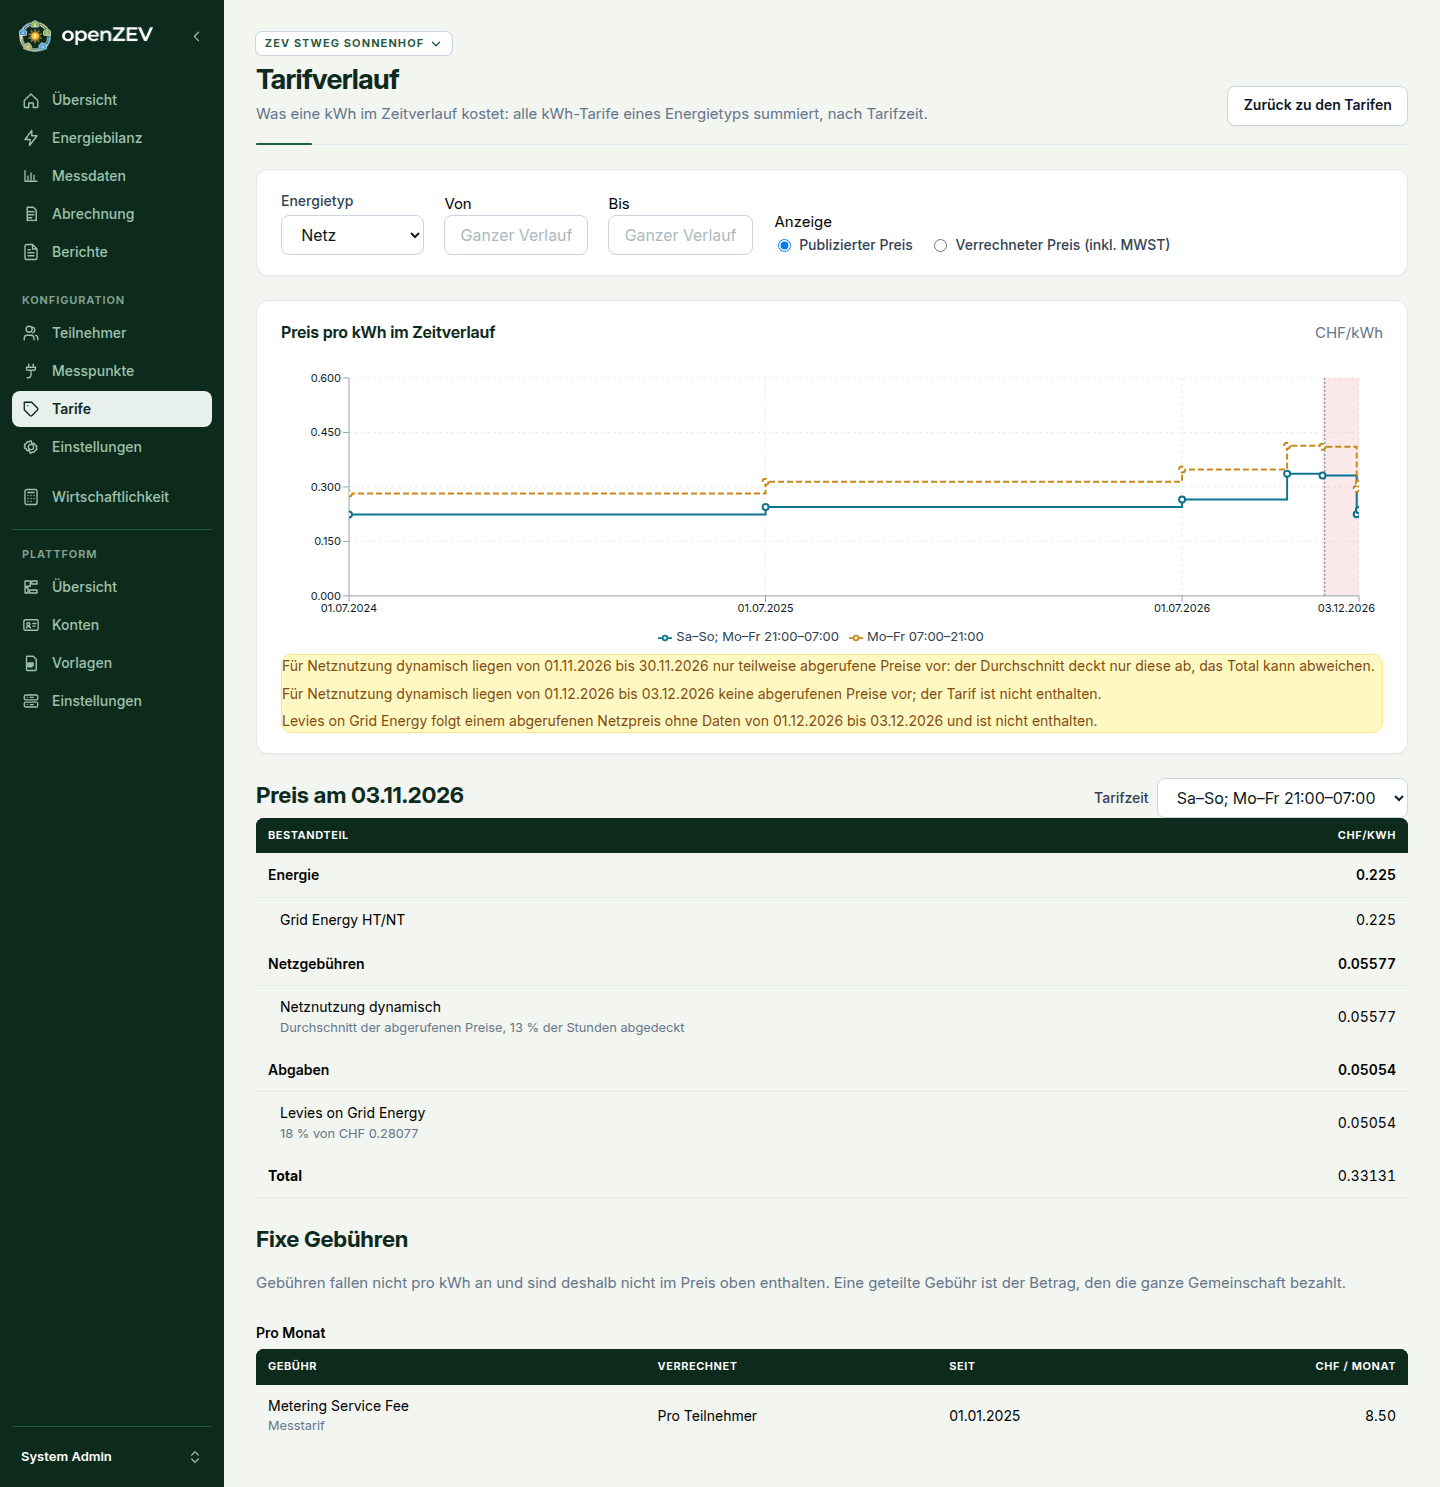
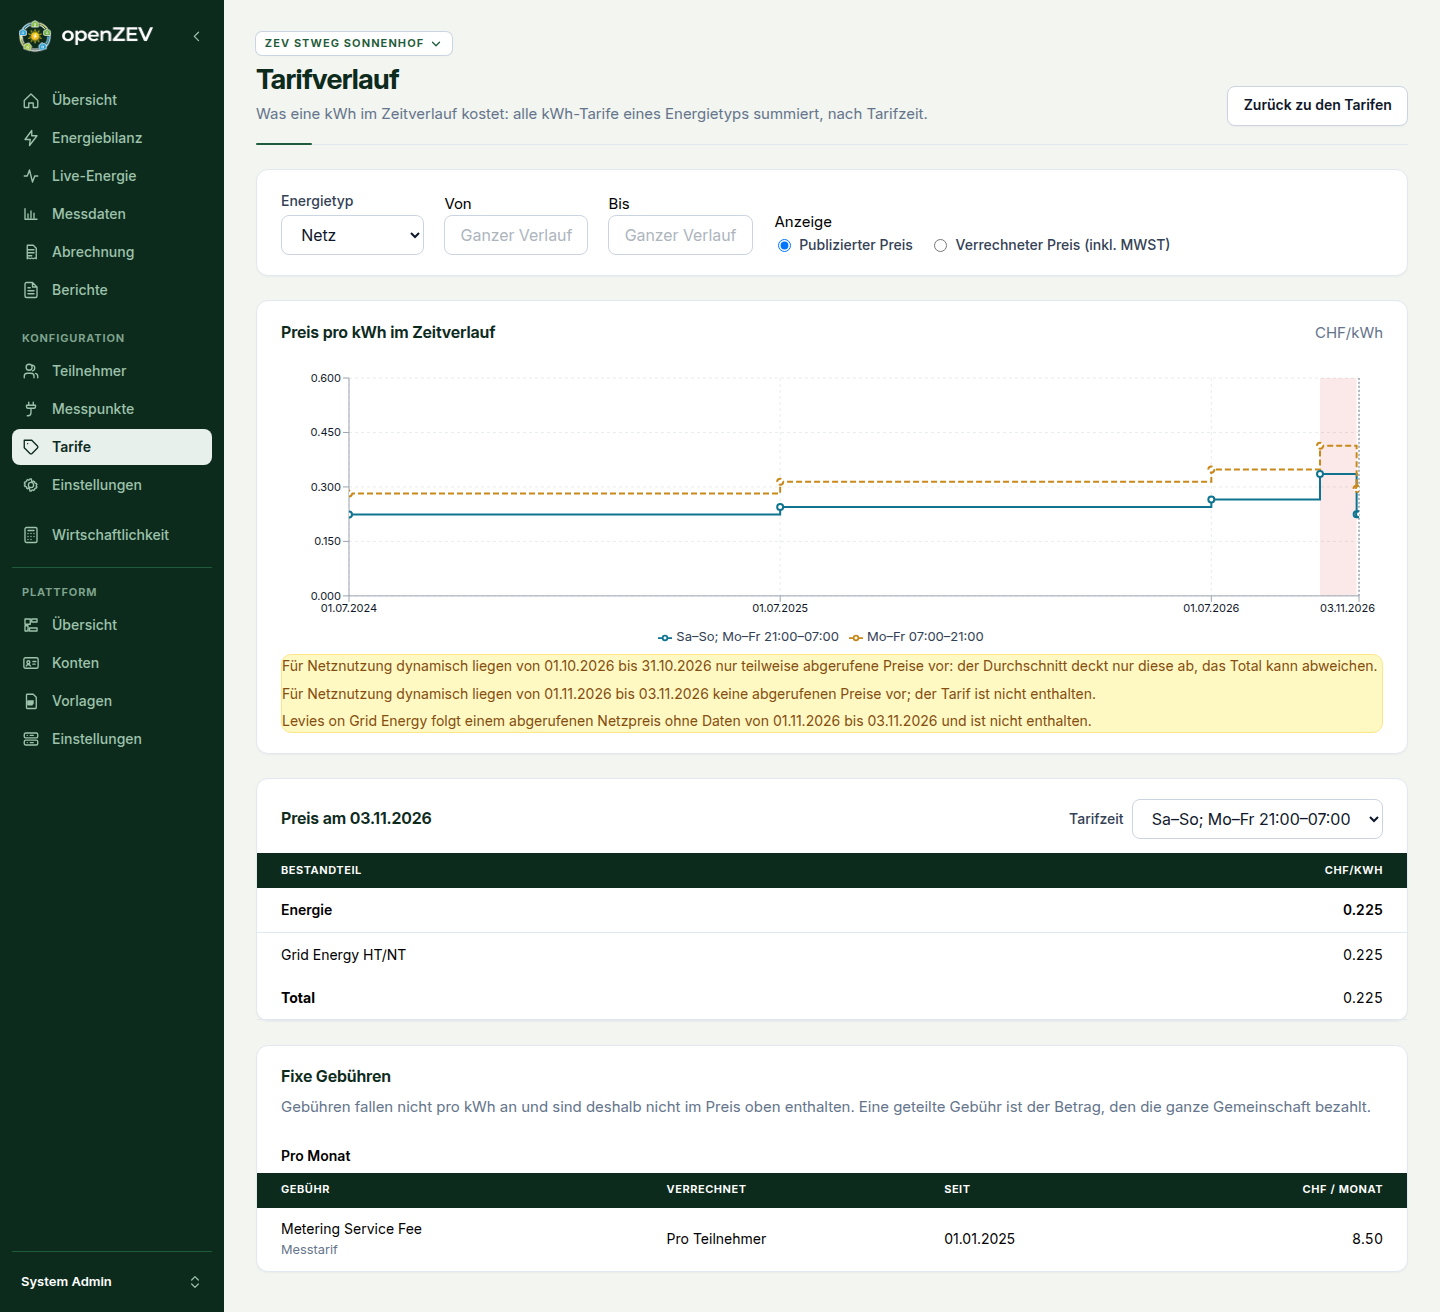
fix(tariffs): put the progression tables on cards and let the fee table scroll (#1117)
The day's composition and the fixed fees were bare sections on the page
background. They now sit in cards with the dark header band edge to edge, like
the app's other tables, and the fee table scrolls inside its card on a narrow
screen instead of running past it. The guide screenshot is regenerated.

diff --git a/frontend/tests/tariff-progression.test.ts b/frontend/tests/tariff-progression.test.ts
@@ -2,6 +2,7 @@ import { act, createElement, type ReactElement } from 'react'
 import { createRoot } from 'react-dom/client'
 import { afterEach, describe, expect, it, vi } from 'vitest'
 import { ProgressionComposition } from '../src/features/tariffs/progression/ProgressionComposition'
+import { ProgressionFixedFees } from '../src/features/tariffs/progression/ProgressionFixedFees'
 import {
     buildChartData,
     clampDay,
@@ -349,5 +350,58 @@ describe('ProgressionComposition', () => {
 
         expect(container.textContent).toContain('"percentage":"65"')
         expect(container.textContent).toContain('"base":"0.300"')
+    })
+})
+
+describe('ProgressionFixedFees', () => {
+    const cleanups: (() => void)[] = []
+    afterEach(() => {
+        cleanups.splice(0).forEach((cleanup) => cleanup())
+        document.body.innerHTML = ''
+    })
+
+    async function render(element: ReactElement) {
+        const container = document.createElement('div')
+        document.body.append(container)
+        const root = createRoot(container)
+        cleanups.push(() => { act(() => root.unmount()); container.remove() })
+        await act(async () => root.render(element))
+        return container
+    }
+
+    const fee = (name: string, unit: 'month' | 'year', scope: TariffProgressionFixedFee['scope'], split: 'equal' | null = null): TariffProgressionFixedFee => ({
+        name, category: 'metering', billing_mode: unit === 'month' ? 'monthly_fee' : 'yearly_fee', unit, scope, split_key: split,
+        versions: [{ tariff_id: name, valid_from: '2025-01-01', valid_to: null, amount_net: '8.50', amount_gross: '9.19', vat_rate: '0.0810' }],
+    })
+
+    it('keeps each unit in its own scrollable table inside the card, so a narrow screen scrolls instead of overflowing', async () => {
+        const container = await render(createElement(ProgressionFixedFees, {
+            fees: [fee('Grundgebühr', 'month', 'participant'), fee('Verwaltung', 'year', 'community', 'equal')],
+            day: '2025-06-01', basis: 'net', settings: DEFAULT_APP_SETTINGS,
+        }))
+
+        expect(container.querySelector('section.card')).not.toBeNull()
+        expect(container.querySelectorAll('.table-scroll table')).toHaveLength(2)
+    })
+
+    it('shows the amount on the chosen basis and the split of a shared fee', async () => {
+        const net = await render(createElement(ProgressionFixedFees, {
+            fees: [fee('Verwaltung', 'month', 'community', 'equal')], day: '2025-06-01', basis: 'net', settings: DEFAULT_APP_SETTINGS,
+        }))
+        const gross = await render(createElement(ProgressionFixedFees, {
+            fees: [fee('Verwaltung', 'month', 'community', 'equal')], day: '2025-06-01', basis: 'gross', settings: DEFAULT_APP_SETTINGS,
+        }))
+
+        expect(net.textContent).toContain('8.50')
+        expect(gross.textContent).toContain('9.19')
+        expect(net.textContent).toContain('pages.tariffs.progression.fees.split.equal')
+    })
+
+    it('renders nothing without fees', async () => {
+        const container = await render(createElement(ProgressionFixedFees, {
+            fees: [], day: '2025-06-01', basis: 'net', settings: DEFAULT_APP_SETTINGS,
+        }))
+
+        expect(container.innerHTML).toBe('')
     })
 })

diff --git a/frontend/src/features/tariffs/progression/ProgressionFixedFees.tsx b/frontend/src/features/tariffs/progression/ProgressionFixedFees.tsx
@@ -21,11 +21,13 @@ export function ProgressionFixedFees({ fees, day, basis, settings }: Props) {
     const groups = groupFees(fees)
 
     return (
-        <section className="tariff-progression-fees" aria-labelledby="tariff-progression-fees-title">
-            <h2 id="tariff-progression-fees-title">{t('pages.tariffs.progression.fees.title')}</h2>
+        <section className="card tariff-progression-fees" aria-labelledby="tariff-progression-fees-title">
+            <div className="card-header">
+                <h2 id="tariff-progression-fees-title">{t('pages.tariffs.progression.fees.title')}</h2>
+            </div>
             <p className="muted">{t('pages.tariffs.progression.fees.intro')}</p>
             {(['month', 'year'] as const).map((unit) => groups[unit].length > 0 && (
-                <div className="data-table" key={unit}>
+                <div className="table-scroll" key={unit}>
                     <table>
                         <caption>{t(`pages.tariffs.progression.fees.${unit}`)}</caption>
                         <thead>

diff --git a/frontend/src/features/tariffs/progression/ProgressionComposition.tsx b/frontend/src/features/tariffs/progression/ProgressionComposition.tsx
@@ -29,8 +29,8 @@ export function ProgressionComposition({ progression, day, lineKey, lineNames, b
     const lines = progression.intervals.find((interval) => interval.from <= day && day <= interval.to)?.slots ?? []
 
     return (
-        <section className="tariff-progression-composition" aria-labelledby="tariff-progression-composition-title">
-            <div className="tariff-progression-composition-header">
+        <section className="card tariff-progression-composition" aria-labelledby="tariff-progression-composition-title">
+            <div className="card-header">
                 <h2 id="tariff-progression-composition-title">
                     {t('pages.tariffs.progression.composition.title', { date: formatShortDate(day, settings) })}
                 </h2>

diff --git a/frontend/src/features/tariffs/TariffProgression.css b/frontend/src/features/tariffs/TariffProgression.css
@@ -41,14 +41,6 @@
   list-style: none;
 }
 
-.tariff-progression-composition-header {
-  display: flex;
-  flex-wrap: wrap;
-  align-items: baseline;
-  justify-content: space-between;
-  gap: 0.5rem 1rem;
-}
-
 .tariff-progression-line-picker {
   display: inline-flex;
   align-items: center;
@@ -84,7 +76,7 @@
 }
 
 .tariff-progression-fees caption {
-  padding: 0.75rem 0 0.35rem;
+  padding: 0.75rem var(--sheet-pad-inline) 0.35rem;
   font-weight: 600;
   text-align: left;
 }
